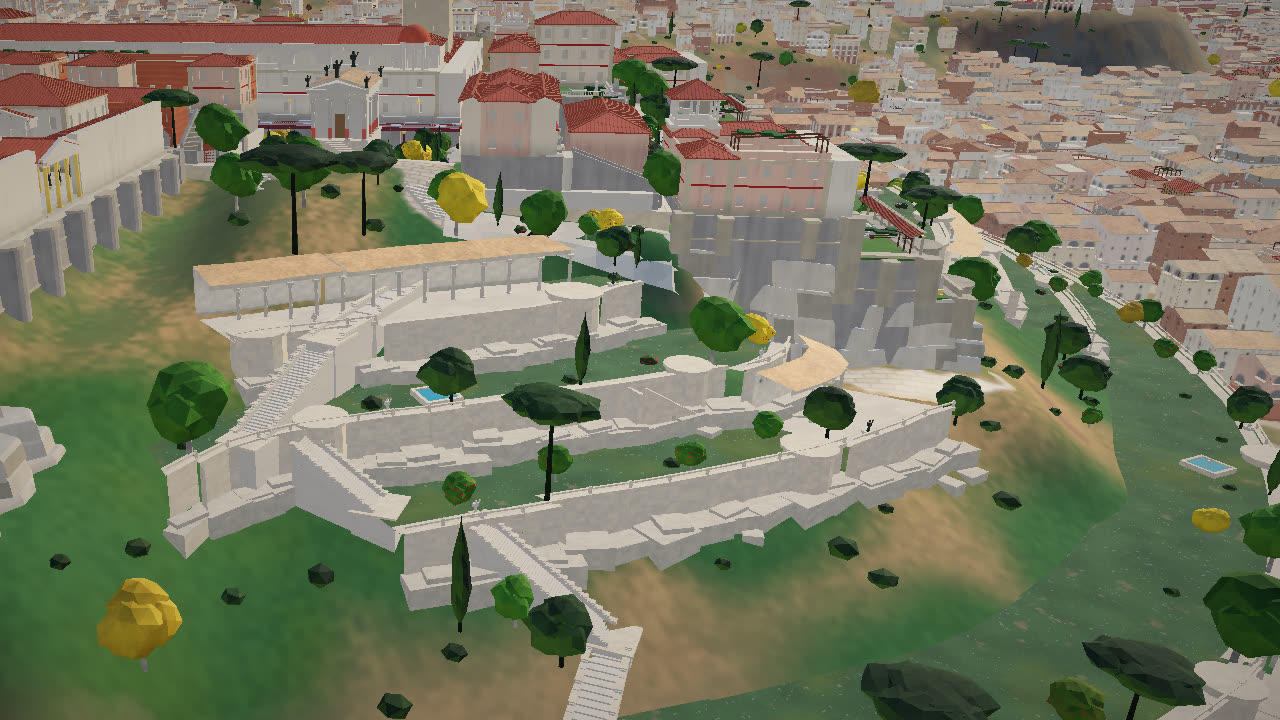
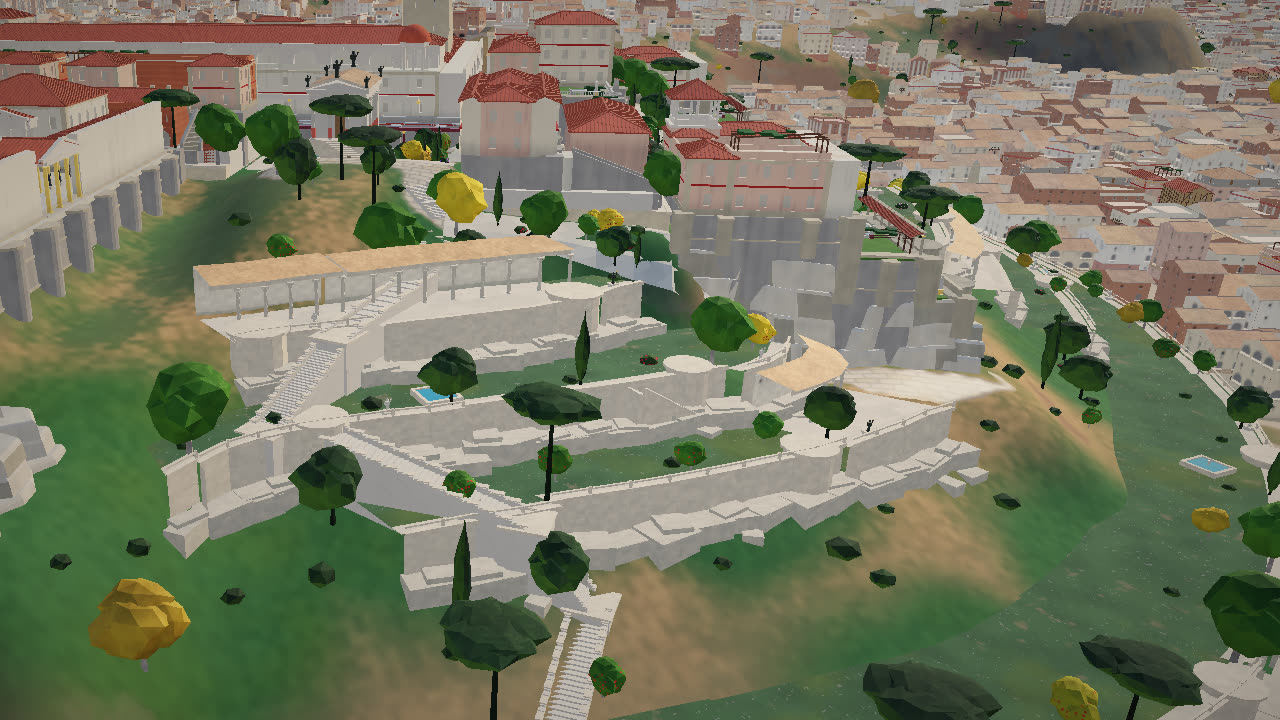
TODO: temple links counted on the lanes layout; screenshots after the merge
Linked 36, new stair 4, on a building 2, none 9 (Portunus now links by a
lane; the Porticus Liviae shrine in the Subura is boxed in by the re-diced
houses). Lots, squares, main roads and the street raster hash the same as
bed1774.

diff --git a/nero-rome-reader /docs/TODO.md b/nero-rome-reader /docs/TODO.md
@@ -291,20 +291,22 @@ Keep this file current: every promise made to the author goes here until it is d
 ### 2026-10-28 神庙通到街（作者：每座神庙正面或左右侧基座附近都有一条路通到普通街道，没有就生成上山台阶）
 - [x] 新文件 `src/world/temple-links.js`，在街道栅格（`buildStreets`）之后、岩石和树之前跑。`temple()` 把每座神庙记进 `W.temples`；宽 6 m 以下的路口小庙不算。
 - [x] 判定：从正面台阶脚和两条长边中点往外走。自己的圣域和台地按神庙地面高度走，空地坡度不超过 36 %，离开街道最多走 45 m。走到"路网"（有主路穿过的那片街道）或一段山台阶，就算通。
-- [x] 不通的就修台阶：从圣域边上地面开始往下掉的地方起步；圣域在岩石基座上的，从基座脚起步，跟作者的图一样（基座里面自己的台阶不动）。终点是下面最近的一条街，从那里再走 45 m 以内能到路网就行，山脚的小土街也算。台阶用 `hillRoute` 的之字形：每段不超过 30 %，在平台上转弯，两边有矮墙和柏树。挡路的房子或喷泉会从旁边绕过去，绕的地方加一个平台。
-- [x] 帕拉蒂尼的园林台地：台阶在每层台地的地面上落一个平台，再贴着台地墙往下走，不从台地底下钻过去（`stairGround`、`stairLandings`）。原来手放的四条大台阶（百级台阶、卡库斯台阶、阿波罗、狄安娜）也走这套，台阶几何从 monuments.js 挪到 `hillStair`。
-- [x] 结果（完整画质，状态 0，宽 6 m 以上的神庙 51 座）：
+- [x] 不通的就修台阶：从圣域边上地面开始往下掉的地方起步；圣域在岩石基座上的，从基座脚起步，跟作者的图一样（基座里面自己的台阶不动）。终点是下面最近的一条街，从那里再走 45 m 以内能到路网就行，山脚的小土街和小巷也算。台阶用 `hillRoute` 的之字形：每段不超过 30 %，在平台上转弯，两边有矮墙和柏树。挡路的房子或喷泉会从旁边绕过去，绕的地方加一个平台。
+- [x] 帕拉蒂尼的园林台地：台阶在每层台地的地面上落一个平台，再贴着台地墙往下走，不从台地底下钻过去（`stairGround`、`stairLandings`）。台地在 palatine.js 里给 `W.foot` 记上地面高 `palTer`。原来手放的四条大台阶（百级台阶、卡库斯台阶、阿波罗、狄安娜）也走这套，台阶几何从 monuments.js 挪到 `hillStair`。
+- [x] 结果（完整画质，状态 0，宽 6 m 以上的神庙 51 座；在 bed1774 的小巷新布局上数的）：
 
   | 通 | 新修台阶 | 立在建筑上 | 没通 |
   |---|---|---|---|
   | 36（街道 30，原有台阶 6） | 4 | 2 | 9 |
 
-  - 新修的台阶：胜利女神庙，正面，94 m，降 28 m，转 3 次，下到西南坡脚的土街 (-114, 439)；大母神庙，正面，82 m，降 19 m，往西下到维拉布鲁姆那边；胜利朱庇特庙，正面，160 m，降 43 m，转 3 次，下到大竞技场那一侧；蔬菜广场第三座庙，侧面一小段 6 m。
+  合并小巷之前也是 36 / 4 / 2 / 9：波尔图努斯庙现在顺着一条小巷走通了，苏布拉里的莉维亚柱廊（930,-280）却被重洗后的房子围死了。
+
+  - 新修的台阶：胜利女神庙，正面，94 m，降 28 m，转 3 次，穿过两层台地下到西南坡脚的土街 (-138, 419)；大母神庙，正面，90 m，降 20 m，往西下到维拉布鲁姆那边；胜利朱庇特庙，正面，165 m，降 42 m，转 4 次，下到大竞技场那一侧；蔬菜广场第三座庙，侧面一小段 6 m。
   - 阿波罗庙原来就有台阶，只是台阶顶比圣域地面低 4 m。现在台阶的起点在神庙自己的地上，也算通，不再另修。
   - 立在建筑上：庞培剧场顶上的维纳斯庙、大竞技场里的小庙（从建筑里面上去）。
-  - 没通，原因记在 `W.templeLinks`。四周都是房子、没有往下掉的边：大地女神庙 (638,-111)、台伯岛 (-578,175)、波尔图努斯庙 (-373,311)、海战池小庙 (-1250,600)。往下的路都被房子挡住：警戒朱诺庙（卫城）、卡比托利欧西南角的心智女神庙和厄律克斯维纳斯庙。蔬菜广场前两座庙立在卡比托利欧的坡上（地面高 26–31 m），两侧又被邻庙挡住。四周都是房子的那几座，要等主会话的"街区里开小巷"做完再看。
+  - 没通，原因记在 `W.templeLinks`。四周都是房子、没有往下掉的边：大地女神庙 (638,-111)、台伯岛 (-578,175)、海战池小庙 (-1250,600)、警戒朱诺庙（卫城）。往下的路都被房子挡住：莉维亚柱廊（苏布拉，平地，修台阶也没用）、卡比托利欧西南角的心智女神庙和厄律克斯维纳斯庙。蔬菜广场前两座庙立在卡比托利欧的坡上（地面高 26–31 m），两侧又被邻庙挡住。四周都是房子的那几座，小巷没切到它们旁边；苏布拉不开小巷。
 - [x] 审查面板加一层"神庙通路"（`?review`）：所有山台阶按踏步高度画出来，新修的黄色、原有的白色；每座神庙一个方框，青色是通，黄色是新修台阶，灰色是立在建筑上，红色打叉是没通；通的再画一条线到它走到的那条街或那段台阶。
-- [x] 不加随机数，地块、广场、主路都不变。
-- 截图 `docs/screenshots/temple-links-20261028/`：`palatine-before.jpg` 和 `palatine-after.jpg` 同机位；`victoria-stair.jpg`、`magna-mater-stair.jpg`、`jupiter-victor-stair.jpg` 是近景；`review-palatine.jpg` 和 `review-capitol.jpg` 带审查线。
+- [x] 不加随机数，台阶在地块、广场、主路都定下来以后才修。和 bed1774 比，地块 25,732 个、轮廓哈希、小广场、主路和街道栅格的哈希都一样；`W.foot` 多了 91 条（台阶占的路）。
+- 截图 `docs/screenshots/temple-links-20261028/`：`palatine-before.jpg`（bed1774）和 `palatine-after.jpg` 同机位；`victoria-stair.jpg`、`magna-mater-stair.jpg`、`jupiter-victor-stair.jpg` 是近景；`review-palatine.jpg` 和 `review-capitol.jpg` 带审查线。
 - [ ] 待看：帕拉蒂尼西南角有两座胜利女神庙：一座是旧的 `T2(-30,392)`，名字点在它那里；一座是 GLB 替身 `rome_victoria` (-61,359)。蔬菜广场三神庙应在平地上（约 8 m），现在立在坡上。
 - 【史】帕拉蒂尼西南角上山走卡库斯台阶（Scalae Caci），胜利女神庙一带还有胜利坡（Clivus Victoriae）沿西北坡上去。这次生成的台阶是生成器补的路，不是史料里的某一条。
